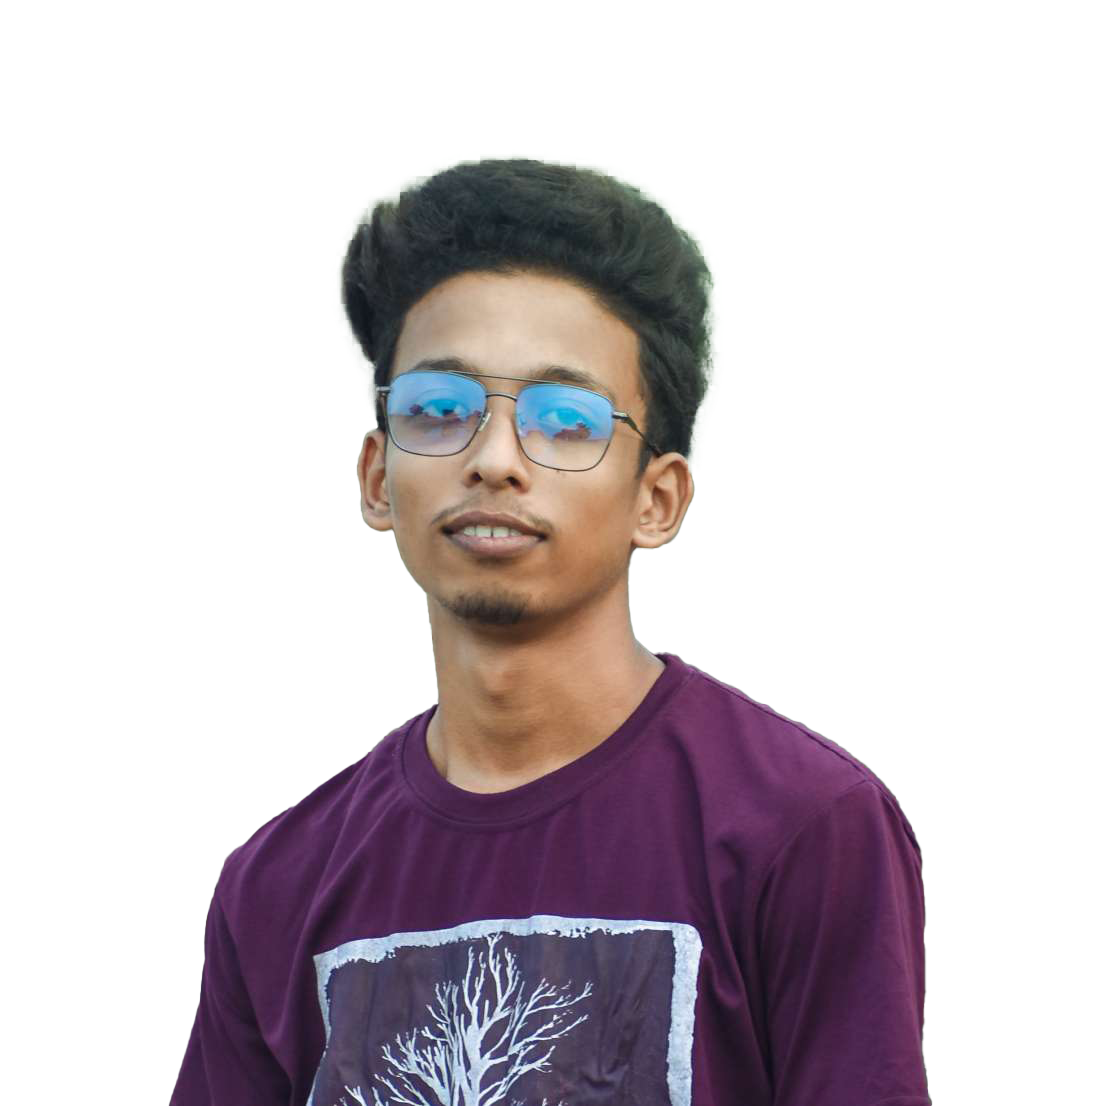
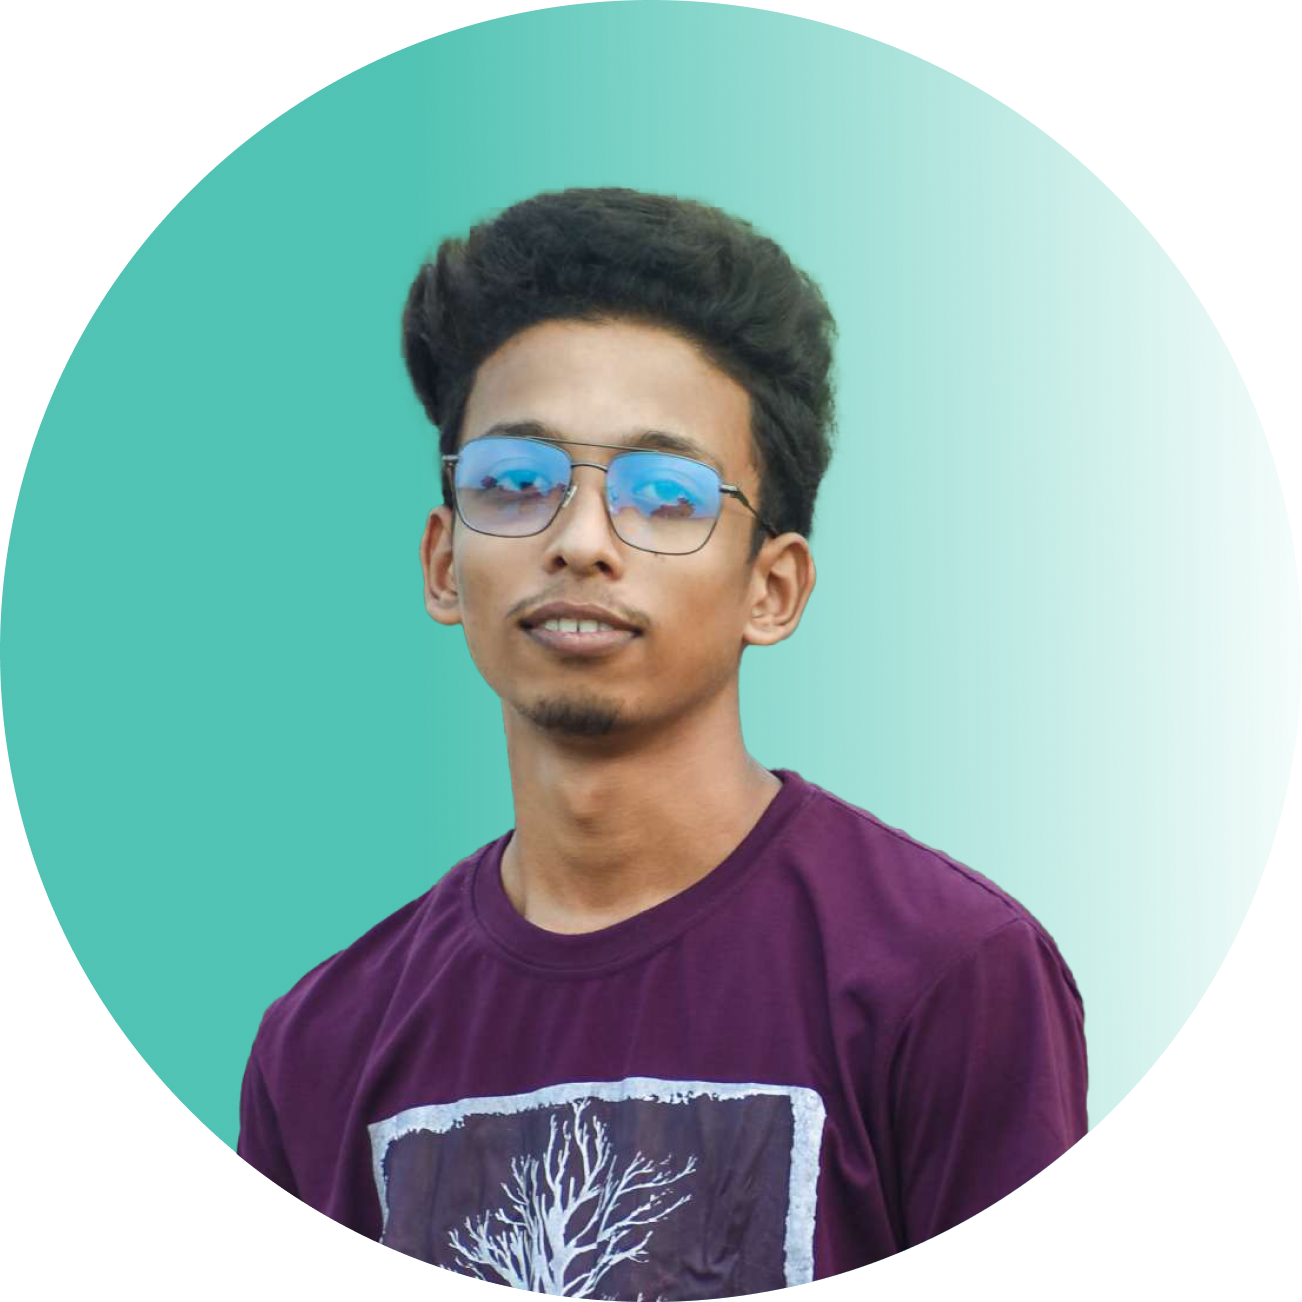
hero image changed

diff --git a/style.css b/style.css
@@ -297,17 +297,20 @@ button:hover{
     animation: hero1914 2s cubic-bezier(0.19, 1, 0.22, 1) 5s both;
     background-image: linear-gradient(to top, rgb(217 255 246) , rgb(239 255 250))
   }
-  .hero3{
+  /* .hero3{
     width: 400px;
     margin: 0% 27%;
     animation: hero3914 2s infinite alternate-reverse 5.5s both;
 
-  }
+  } */
   nav{
     margin: 20px 20px;
   }
-  .img{
+  .hero1 .img{
     height: 400px;
+    animation: img914 2s infinite alternate-reverse 5.5s both;
+    margin: 3% 28%;
+
   }
   #menu{
     display: block;
@@ -317,12 +320,12 @@ button:hover{
   }
   
 }
-@keyframes hero3914 {
+@keyframes img914 {
   from {
-    margin-top: 33%;
+    margin-top: 36%;
   }
   to {
-    margin-top: 29%;
+    margin-top: 40%;
 
   }
 }
@@ -351,6 +354,39 @@ button:hover{
   }
   #h3{
     display: none;
+  }
+  .hero1 .img{
+    height: 350px;
+    animation: img500 2s infinite alternate-reverse 5.5s both;
+    margin: 0% 5% 0% 5%;
+
+  }
+}
+@keyframes img500 {
+  from {
+    margin-top: 53%;
+  }
+  to {
+    margin-top: 60%;
+
+  }
+}
+@media (max-width: 376px) {
+ 
+  .hero1 .img{
+    height: 350px;
+    animation: img376 2s infinite alternate-reverse 5.5s both;
+    margin: 0% 3% 0% 3%;
+
+  }
+}
+@keyframes img376 {
+  from {
+    margin-top: 95%;
+  }
+  to {
+    margin-top: 100%;
+
   }
 }
 .hero5{
@@ -423,7 +459,7 @@ button:hover{
   }
 } 
 
-.hero3{
+/* .hero3{
   background-image: linear-gradient(to right, rgb(81, 195, 180) , rgb(245, 253, 251));  
   width: 500px;
   border-radius: 50%;
@@ -431,18 +467,22 @@ button:hover{
   margin: 20%;
   animation: hero3 2s infinite alternate-reverse 5.5s both;
   box-shadow: rgb(0 5 8 / 7%) -1px 20px 20px 1px;
-}
+} */
 .img{
   height: 500px;
   border-radius: 50%;
   overflow: revert-layer;
+  margin: 30% 3% 0% 17%;
+  animation: img 2s infinite alternate-reverse 5.5s both;
+  box-shadow: rgb(0 5 8 / 7%) -1px 20px 20px 1px;
+
 }
-@keyframes hero3 {
+@keyframes img {
   from {
-    margin-top: 23%;
+    margin-top: 20%;
   }
   to {
-    margin-top: 19%;
+    margin-top: 15%;
   }
 }
 .hero7{

diff --git a/index.html b/index.html
@@ -64,10 +64,8 @@
                             <button class="btn2">Hire me</button>
                         </div>
                     </div> 
-                    <div class="hero1">          
-                        <div class="hero3">       
+                    <div class="hero1">                 
                             <img src="hero.png" alt="" class="img">
-                        </div>
                     </div>
                 </div>
             </div>
